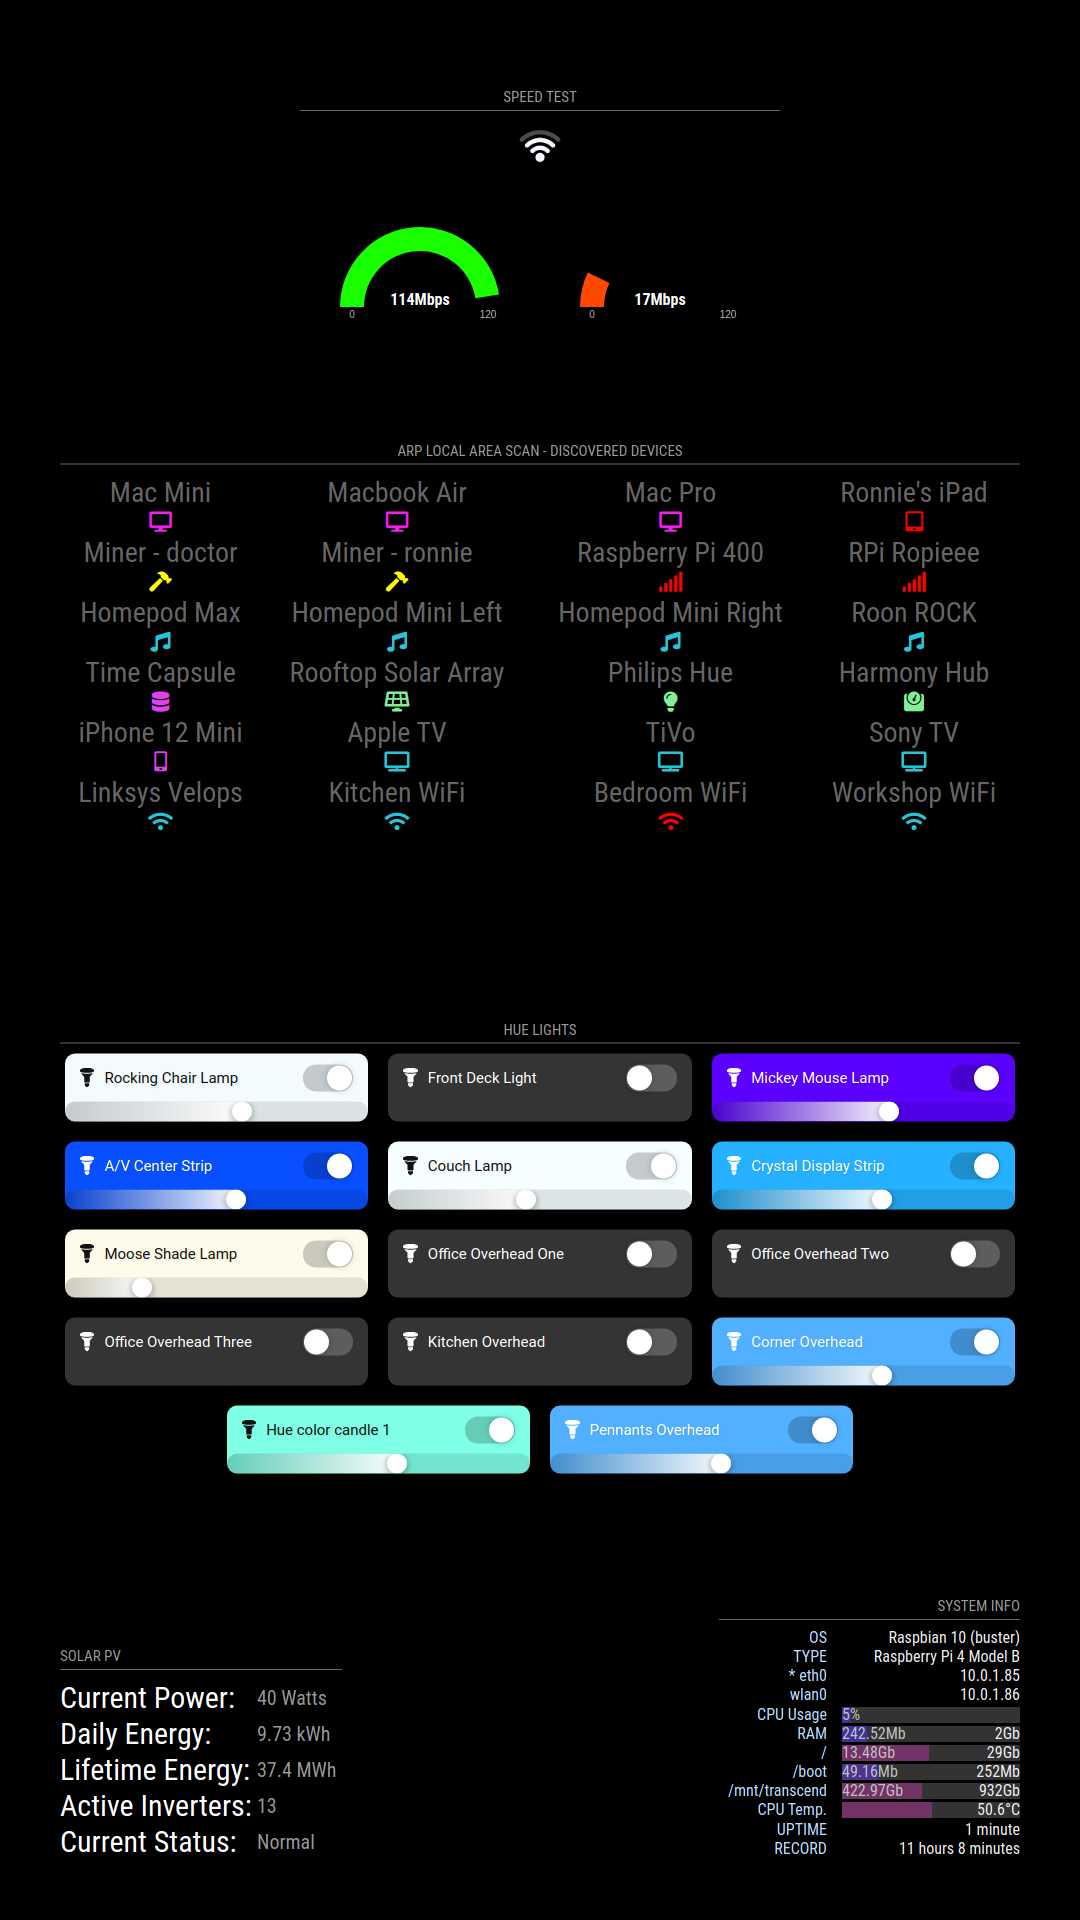
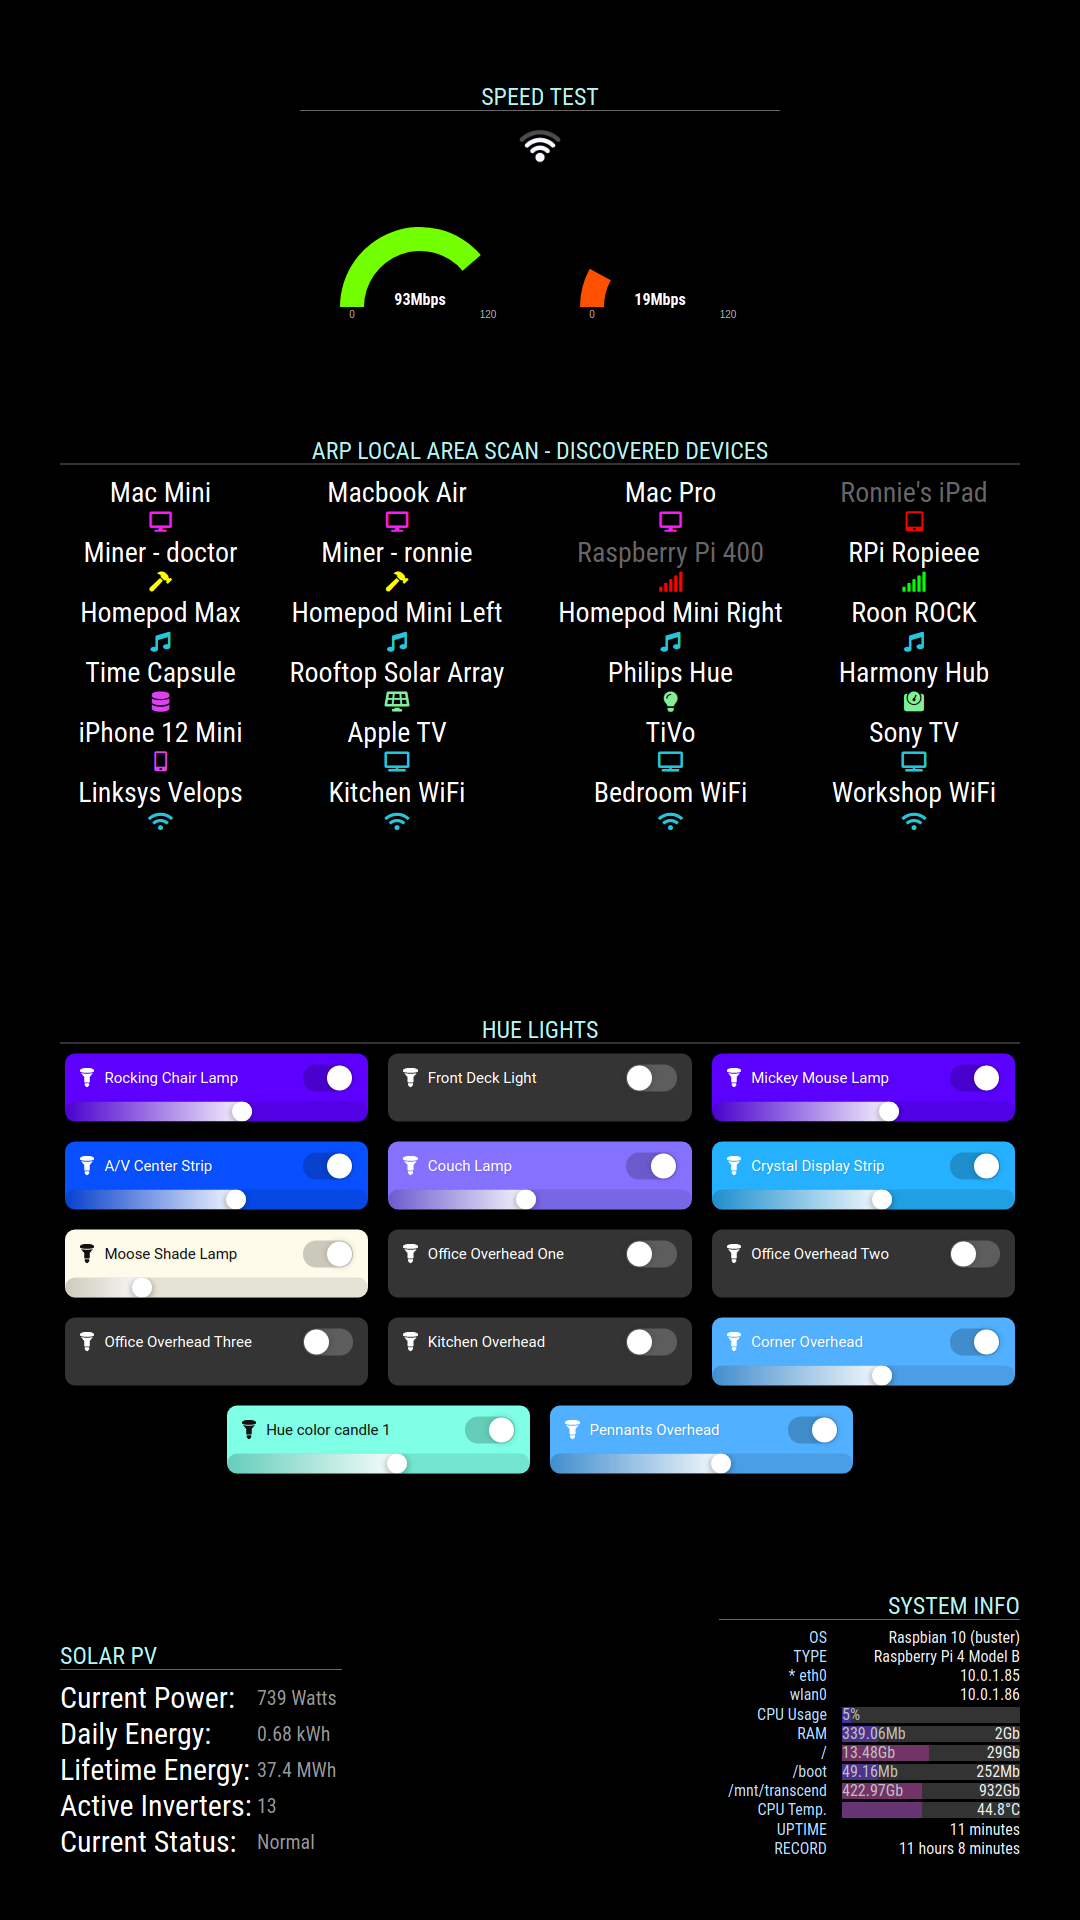
Highlight online devices in column mode, update and add network info screenshot

diff --git a/MMM-MacAddressScan.js b/MMM-MacAddressScan.js
@@ -34,7 +34,7 @@ Module.register("MMM-MacAddressScan", {
 		debug: false,
 		
 		// sjj: show table as device rows or as device columns
-		showDeviceColums: false,
+		showDeviceColumns: false,
 		coloredState: false,
 	},
 
@@ -241,9 +241,9 @@ Module.register("MMM-MacAddressScan", {
 					deviceRow.appendChild(dateCell);
 				}
 
-				// sjj: Append a new row if showDeviceColums and showInNewRow are both true
+				// sjj: Append a new row if showDeviceColumns and showInNewRow are both true
 
-				if (self.config.showDeviceColums && device.showInNewRow) {
+				if (self.config.showDeviceColumns && device.showInNewRow) {
 					// append the previously processed devices to the table
 					deviceTable.appendChild(headerRow);
 					deviceTable.appendChild(devStateRow);
@@ -258,7 +258,7 @@ Module.register("MMM-MacAddressScan", {
 				// sjj: fill also header and devState row
 				// header row
 				var headerDevCell = document.createElement("td");
-				headerDevCell.classList.add("headerDevCell");
+				headerDevCell.classList.add("headerDevCell", deviceOnline);
 				headerDevCell.innerHTML += device.name;
 
 				headerRow.appendChild(headerDevCell);
@@ -281,7 +281,7 @@ Module.register("MMM-MacAddressScan", {
 				devStateRow.appendChild(devStateCell);
 
 				// sjj: show as Device rows or as Device columns 
-				if (!self.config.showDeviceColums) {
+				if (!self.config.showDeviceColumns) {
 					deviceTable.appendChild(deviceRow);
 				}
 
@@ -291,7 +291,7 @@ Module.register("MMM-MacAddressScan", {
 		});
 		
 		// sjj: show as Device rows or as Device columns 
-		if (self.config.showDeviceColums) {
+		if (self.config.showDeviceColumns) {
 			deviceTable.appendChild(headerRow);
 			deviceTable.appendChild(devStateRow);
 		}

diff --git a/README.md b/README.md
@@ -99,7 +99,7 @@ Add the module to the modules array in the `config/config.js` file:
 | `colored` | `false` | `optional` determines whether devices are shown in the color defined in the devices section. |
 | `coloredSymbolOnly` | `false` | `optional` shows only the devices symbol. |
 | `showLastSeenWhenOffline:` | `false` | `optional` show last seen only when offline. |
-| `showDeviceColums:` | `false` | `optional` show devices as columns. |
+| `showDeviceColumns:` | `false` | `optional` show devices as columns. |
 | `coloredState:` | `false` | `optional` determines whether devices are shown in a color defined in the devices section and controlled by the online / offline state. |
 
 
@@ -216,7 +216,7 @@ Displays the specified devices as columns:
             sort: false,
             showIP: false,
             showUnknown: false,
-            showDeviceColums: true,
+            showDeviceColumns: true,
             coloredState: true,
         }
     }
@@ -348,18 +348,22 @@ Devices as columns with newLines<br/>
   <img src=".gitlab/exampleColumnsNewLines.jpg">
 </p>
 <p float="left">
-Network/System Info<br/>(click to enlarge)<br/>
+Network/System Info Screen and MMM-MacAddressScan Module<br/>
+Online devices are highlighted with device group color<br/>
+Offline devices are dimmed with red device icon color<br/>
+(click to enlarge)<br/>
   <img src=".gitlab/network_info_1.png" width="270" height="480">
+  <img src=".gitlab/network_info_2.png" width="270" height="480">
 </p>
 The Network/System Info screenshot is from a MagicMirror configured with
 the following modules:
 
-- MMM-Remote-Control
-- MMM-Tools
-- mmm-hue-lights
-- MMM-Solar
-- internet-monitor
-- MMM-MacAddressScan
+- [MMM-Remote-Control](https://github.com/Jopyth/MMM-Remote-Control)
+- [MMM-Tools](https://github.com/bugsounet/MMM-Tools)
+- [mmm-hue-lights](https://github.com/michael5r/mmm-hue-lights)
+- [MMM-Solar](https://github.com/tkrywit/MMM-Solar)
+- [internet-monitor](https://github.com/ronny3050/internet-monitor)
+- [MMM-MacAddressScan](https://gitlab.com/doctorfree/MMM-MacAddressScan)
 
 ## Support
 
